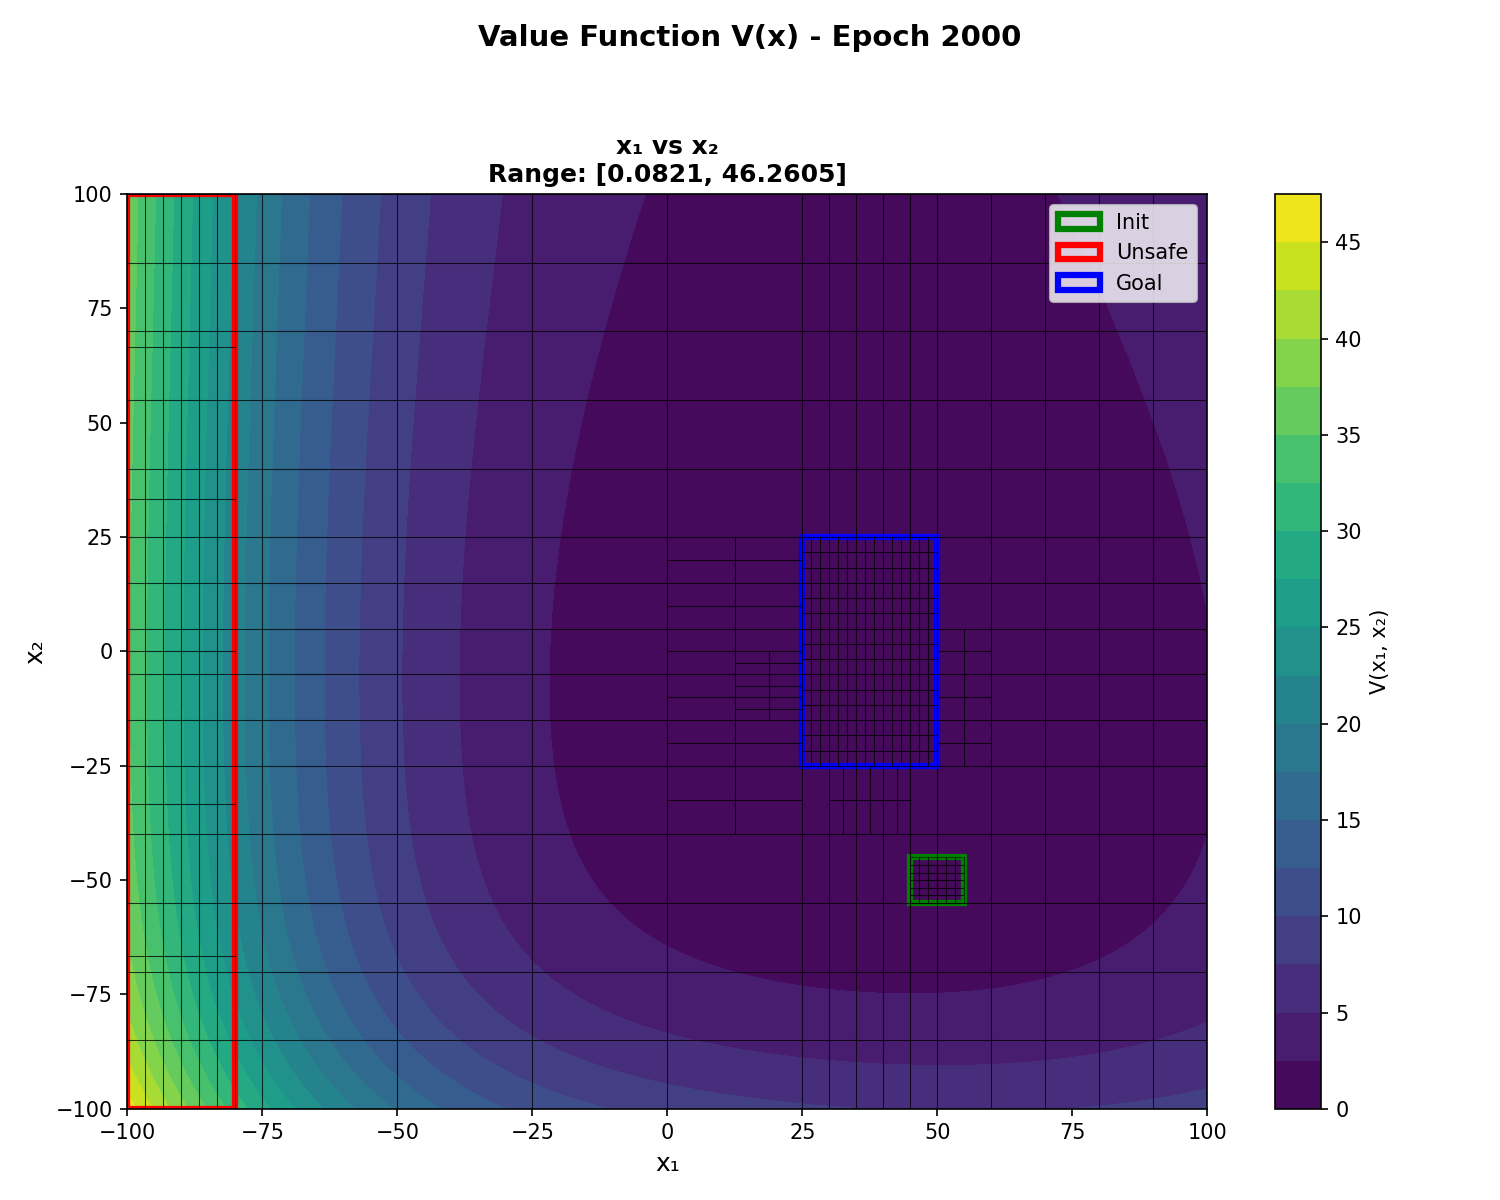
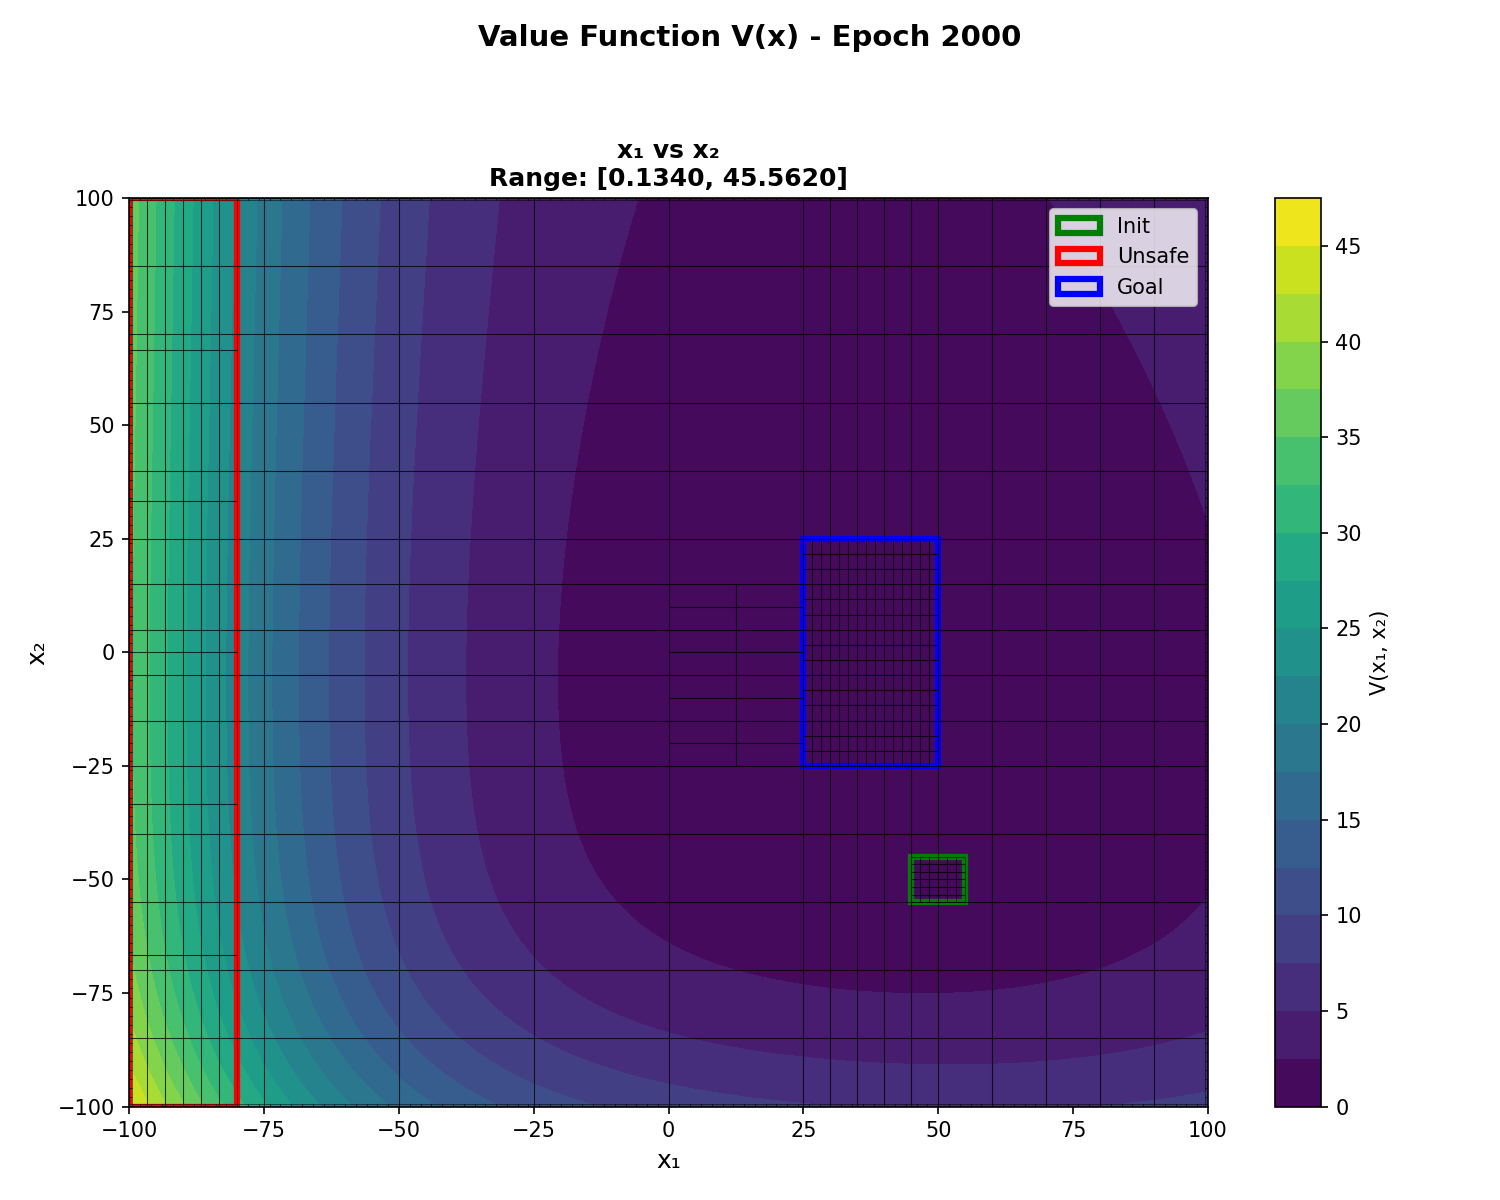
Implement boundary cells and loss for >= 1.0

diff --git a/src/training_utils.py b/src/training_utils.py
@@ -296,6 +296,8 @@ def compute_total_loss_bounds(
     V_init_upper: torch.Tensor = None,
     V_outside_lower: torch.Tensor = None,
     V_outside_upper: torch.Tensor = None,
+    V_boundary_lower: torch.Tensor = None,
+    V_boundary_upper: torch.Tensor = None,
     Phi_lower: torch.Tensor = None,
     Phi_upper: torch.Tensor = None,
     Phi_lower_unsafe: torch.Tensor = None,
@@ -336,6 +338,7 @@ def compute_total_loss_bounds(
             'unsafe': 1.0,
             'init': 1.0,
             'outside': 1.0,
+            'boundary': 1.0,
             'generator': 1.0
         }
 
@@ -346,6 +349,11 @@ def compute_total_loss_bounds(
                                                  device=device, n_samples=10000, show=False, w_soft=w_soft)
         loss_init = compute_loss_init_bounds(V_init_lower, V_init_upper, beta_s)
         loss_outside = compute_loss_outside_bounds(V_outside_lower, V_outside_upper, beta_s)
+        # Boundary loss (only if boundary bounds provided)
+        if V_boundary_lower is not None and V_boundary_upper is not None:
+            loss_boundary = compute_loss_boundary_bounds(V_boundary_lower, V_boundary_upper)
+        else:
+            loss_boundary = torch.tensor(0.0, device=device)
     if compute_GV:
         loss_generator = compute_loss_generator_bounds(Phi_lower, Phi_upper)
 
@@ -358,6 +366,7 @@ def compute_total_loss_bounds(
             loss_weights['unsafe'] * loss_unsafe +
             loss_weights['init'] * loss_init +
             loss_weights['outside'] * loss_outside +
+            loss_weights['boundary'] * loss_boundary +
             generator_weight * loss_generator #+ loss_generator_unsafe + loss_generator_goal
         )
 
@@ -367,6 +376,7 @@ def compute_total_loss_bounds(
             'unsafe': loss_unsafe.item(),
             'init': loss_init.item(),
             'outside': loss_outside.item(),
+            'boundary': loss_boundary.item(),
             'generator': loss_generator.item()
         }
 
@@ -375,7 +385,8 @@ def compute_total_loss_bounds(
             loss_weights['goal'] * loss_goal +
             loss_weights['unsafe'] * loss_unsafe +
             loss_weights['init'] * loss_init +
-            loss_weights['outside'] * loss_outside
+            loss_weights['outside'] * loss_outside +
+            loss_weights['boundary'] * loss_boundary
         )
 
         loss_dict = {
@@ -383,7 +394,8 @@ def compute_total_loss_bounds(
             'goal': loss_goal.item(),
             'unsafe': loss_unsafe.item(),
             'init': loss_init.item(),
-            'outside': loss_outside.item()
+            'outside': loss_outside.item(),
+            'boundary': loss_boundary.item()
         }
 
     elif not compute_V and compute_GV:
@@ -431,7 +443,7 @@ def evaluate_constraints(
 
     if input_dim is None:
         # Try infer from any non-empty cell list
-        for name in ['goal', 'unsafe', 'init', 'outside', 'generator']:
+        for name in ['goal', 'unsafe', 'init', 'outside', 'boundary', 'generator']:
             if name in region_cells and len(region_cells[name]) > 0:
                 cell0 = region_cells[name][0]          # (lower, upper)
                 input_dim = int(cell0[0].numel())       # lower is (D,)
@@ -448,7 +460,7 @@ def evaluate_constraints(
             input_lowers_all, input_uppers_all = input_bounds_all
             v_lowers_all, v_uppers_all = crown_cache_all.compute_bounds(input_lowers_all, input_uppers_all)
 
-            region_order = ['init', 'goal', 'unsafe', 'outside']
+            region_order = ['init', 'goal', 'unsafe', 'outside', 'boundary']
             start_idx = 0
             for name in region_order:
                 count = cell_counts_V[name]
@@ -460,7 +472,7 @@ def evaluate_constraints(
                     region_bounds[name] = (torch.tensor([], device=device), torch.tensor([], device=device))
         else:
             # Fallback: create separate cache for each region (dimension-generic)
-            for name in ['goal', 'unsafe', 'init', 'outside']:
+            for name in ['goal', 'unsafe', 'init', 'outside', 'boundary']:
                 if len(region_cells[name]) > 0:
                     cache = SymbolicCROWNCache(V_net, len(region_cells[name]), input_dim=input_dim, device=device)
                     input_lowers, input_uppers = prepare_cell_bounds(region_cells[name], device=device, input_dim=input_dim)
@@ -516,6 +528,27 @@ def evaluate_constraints(
             init_satisfied = True
             v_init_min = v_init_max = 0.0
 
+        # Boundary: bounds only (universal) V(x) >= 1.0
+        if 'boundary' in region_cells and len(region_cells['boundary']) > 0:
+            # Check if boundary bounds are already in region_bounds
+            if 'boundary' in region_bounds and len(region_bounds['boundary'][0]) > 0:
+                boundary_satisfied = (region_bounds['boundary'][0] >= 1.0).all().item()
+                v_boundary_min = region_bounds['boundary'][0].min().item()
+                v_boundary_max = region_bounds['boundary'][1].max().item()
+            else:
+                # Fallback: compute boundary bounds separately
+                cache_boundary = SymbolicCROWNCache(V_net, len(region_cells['boundary']), input_dim=input_dim, device=device)
+                input_lowers_boundary, input_uppers_boundary = prepare_cell_bounds(
+                    region_cells['boundary'], device=device, input_dim=input_dim
+                )
+                v_lowers_boundary, v_uppers_boundary = cache_boundary.compute_bounds(input_lowers_boundary, input_uppers_boundary)
+                boundary_satisfied = (v_lowers_boundary >= 1.0).all().item()
+                v_boundary_min = v_lowers_boundary.min().item()
+                v_boundary_max = v_uppers_boundary.max().item()
+        else:
+            boundary_satisfied = True
+            v_boundary_min = v_boundary_max = 0.0
+
         # Generator: bounds only (universal)  Φ(x) <= 0
         if len(region_cells['generator']) > 0:
             if crown_cache_phi is not None:
@@ -548,6 +581,7 @@ def evaluate_constraints(
         'unsafe_satisfied': unsafe_satisfied,
         'init_satisfied': init_satisfied,
         'outside_satisfied': outside_satisfied,
+        'boundary_satisfied': boundary_satisfied,
         'generator_satisfied': generator_satisfied,
 
         'V_goal_min': v_goal_min,
@@ -559,6 +593,8 @@ def evaluate_constraints(
         'V_init_max': v_init_max,
         'V_outside_min': v_outside_min,
         'V_outside_max': v_outside_max,
+        'V_boundary_min': v_boundary_min,
+        'V_boundary_max': v_boundary_max,
         'Phi_min': phi_min,
         'Phi_max': phi_max,
         'Phi_mean': phi_mean,
@@ -585,6 +621,7 @@ def print_loss_summary(epoch: int, loss_dict: dict, prefix: str = "", compute_V:
             f"Unsafe: {loss_dict['unsafe']:.4f} | "
             f"Init: {loss_dict['init']:.4f} | "
             f"Outside: {loss_dict['outside']:.4f} | "
+            f"Boundary: {loss_dict['boundary']:.4f} | "
             f"Gen: {loss_dict['generator']:.4f}")
     elif compute_V and not compute_GV:
         print(f"{prefix}Epoch {epoch:5d} | "
@@ -592,7 +629,8 @@ def print_loss_summary(epoch: int, loss_dict: dict, prefix: str = "", compute_V:
             f"Goal: {loss_dict['goal']:.4f} | "
             f"Unsafe: {loss_dict['unsafe']:.4f} | "
             f"Init: {loss_dict['init']:.4f} | "
-            f"Outside: {loss_dict['outside']:.4f}")
+            f"Outside: {loss_dict['outside']:.4f} | "
+            f"Boundary: {loss_dict['boundary']:.4f}")
     else:
         print(f"{prefix}Epoch {epoch:5d} | "
             f"Gen: {loss_dict['generator']:.4f}")
@@ -619,6 +657,8 @@ def print_constraint_summary(results: dict, prefix: str = ""):
           f"(V_min={results['V_init_min']:.3f}, V_max={results['V_init_max']:.3f})")
     print(f"{prefix}  Outside:   {status_str(results['outside_satisfied'])} "
           f"(V_min={results['V_outside_min']:.3f}, V_max={results['V_outside_max']:.3f})")
+    print(f"{prefix}  Boundary:  {status_str(results['boundary_satisfied'])} "
+          f"(V_min={results['V_boundary_min']:.3f}, V_max={results['V_boundary_max']:.3f})")
     print(f"{prefix}  Generator: {status_str(results['generator_satisfied'])} "
           f"(Phi_upper_min={results['Phi_min']:.3f}, Phi_upper_max={results['Phi_max']:.3f}, failing={results['num_failing_cells']})")
 
